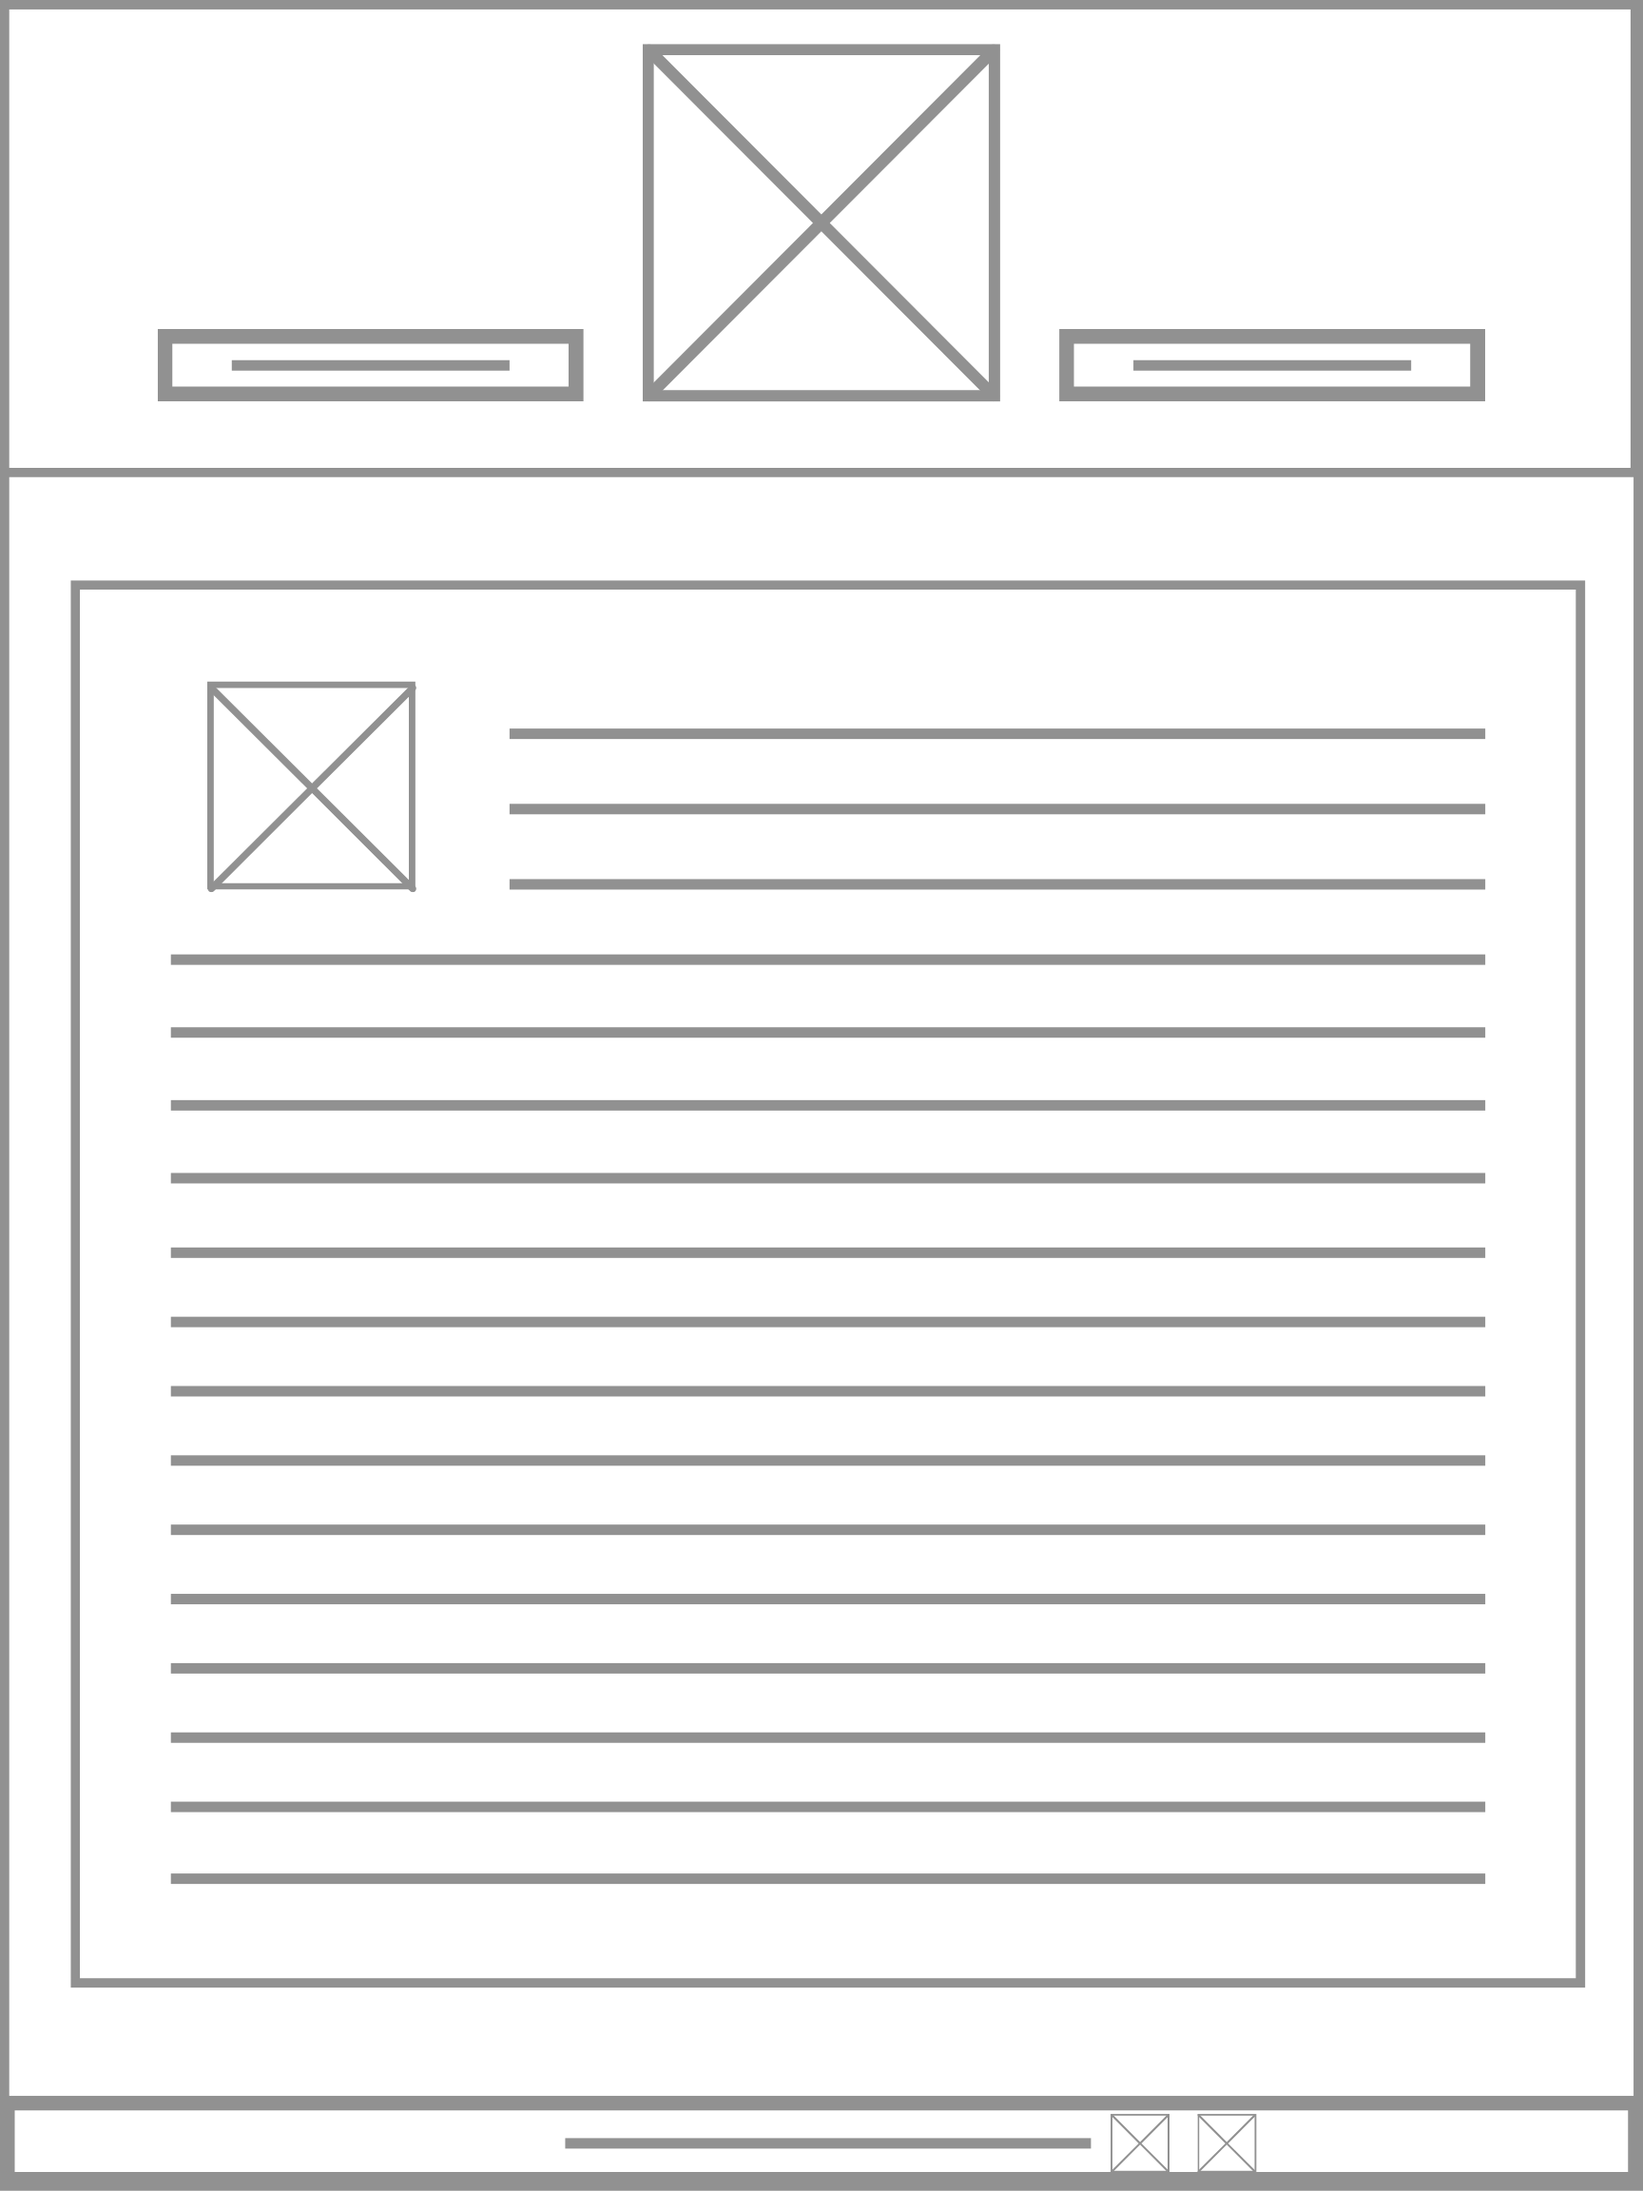
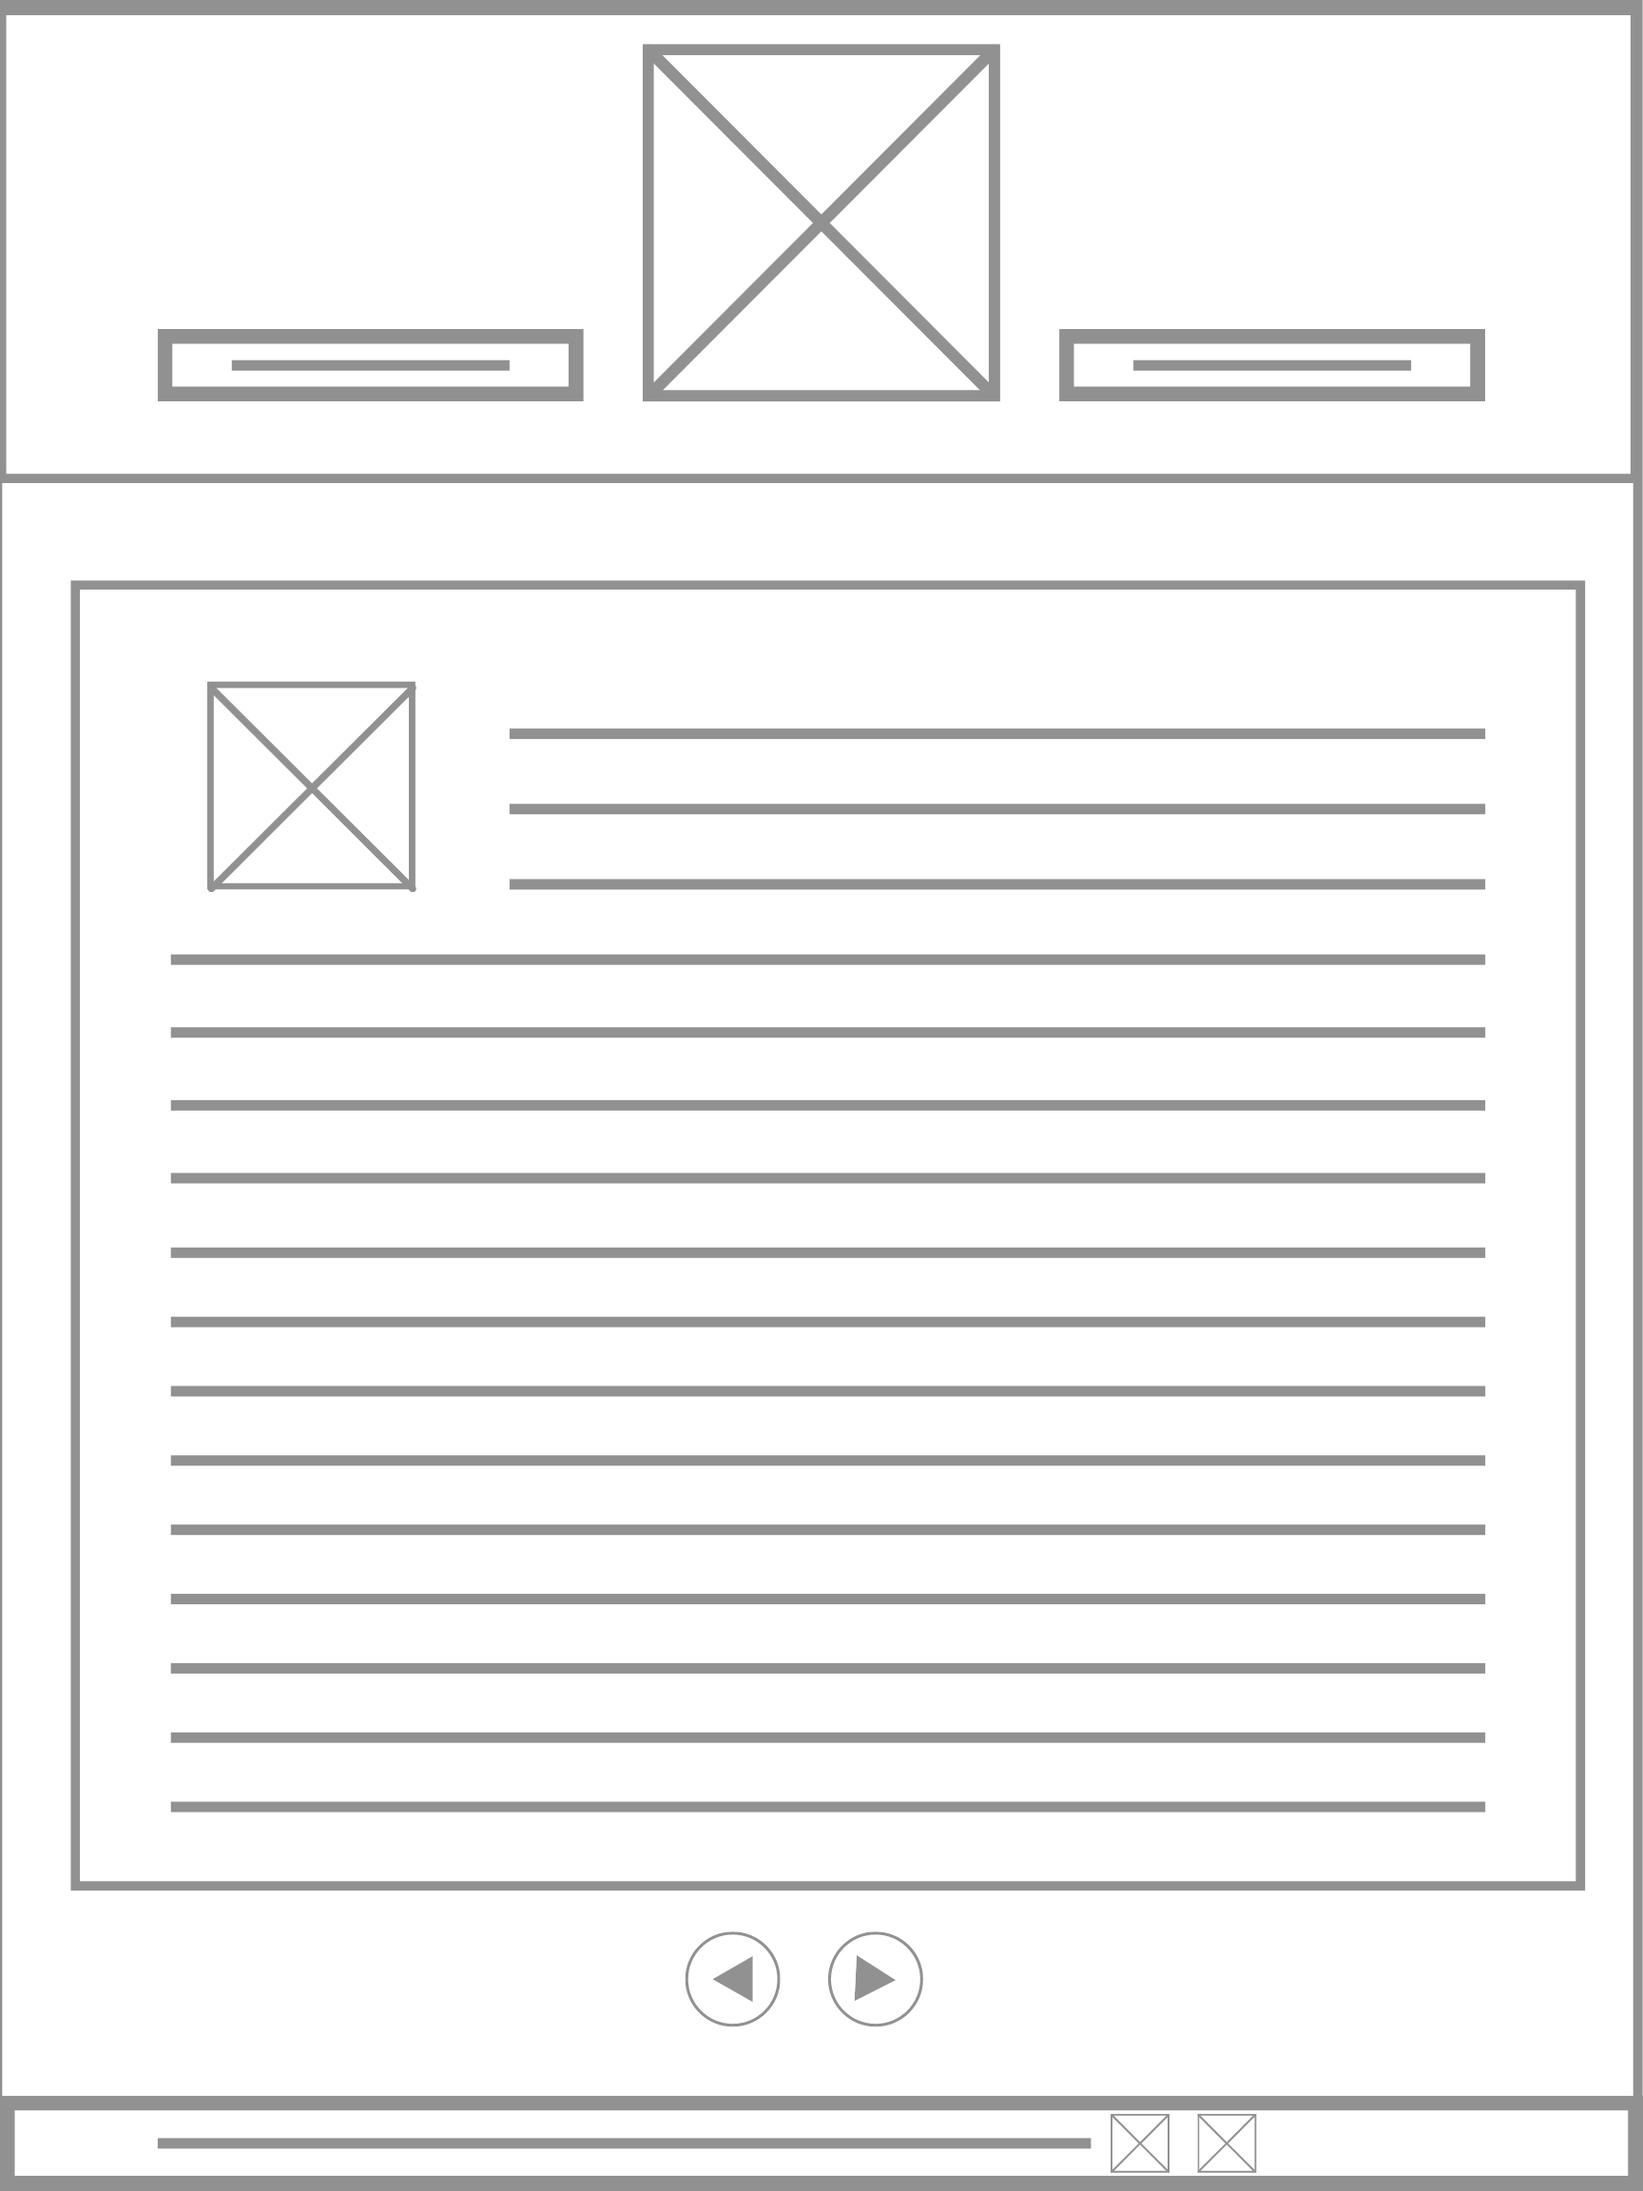
finished poetry page

Changed region(s): [[0.0, 0.1875, 1.0, 0.9375], [0.0938, 0.9688, 0.3438, 1.0], [0.0, 0.0, 0.0312, 0.0312]]

diff --git a/poetry/witchshat_icon.html b/poetry/witchshat_icon.html
@@ -32,34 +32,37 @@
     <main>
       <img class="pp_icon" src="images/hatlo.png" alt="witch's hat icon" />
       <section class="pp_text">
-      <h2>A Witch's Chant by James Hogg</h2>
-      <p>
-        Thou art weary, weary, weary, Thou art weary and far away, Hear me,
-        gentle spirit, hear me, Come before the dawn of day. I hear a small
-        voice from the hill, The vapour is deadly, pale, and still— A murmuring
-        sough is on the wood, And the witching star is red as blood. And in the
-        cleft of heaven I scan The giant form of a naked man, His eye is like
-        the burning brand, And he holds a sword in his right hand. All is not
-        well. By dint of spell, Somewhere between the heaven and hell There is
-        this night a wild deray, The spirits have wander'd from their way. The
-        purple drops shall tinge the moon As she wanders through the midnight
-        noon; And the dawning heaven shall all be red With blood by guilty
-        angels shed. Be as it will, I have the skill To work by good or work by
-        ill; Then here's for pain, and here's for thrall, And here's for
-        conscience, worst of all. Another chant, and then, and then, Spirits
-        shall come or Christian men— Come from the earth, the air, or the sea,
-        Great Gil-Moules, I cry to thee! Sleep'st thou, wakest thou, lord of the
-        wind, Mount thy steeds and gallop them blind; And the long-tailed fiery
-        dragon outfly The rocket of heaven, the bomb of the sky. Over the
-        dog-star, over the wain, Over the cloud, and the rainbow's mane, Over
-        the mountain, and over the sea, Haste—haste—haste to me! Then here's for
-        trouble, and here's for smart, And here's for the pang that seeks the
-        heart; Here's for madness, and here's for thrall, And here's for
-        conscience, the worst of all!
-      </p>
-    </section> 
-      <a  href="pumpkin_icon.html" class="previous">&#8249;</a>
-      <a  href="hand_icon.html" class="next">&#8250;</a>
+        <h2>A Witch's Chant by James Hogg</h2>
+        <p>
+          Thou art weary, weary, weary, Thou art weary and far away, Hear me,
+          gentle spirit, hear me, Come before the dawn of day. I hear a small
+          voice from the hill, The vapour is deadly, pale, and still— A
+          murmuring sough is on the wood, And the witching star is red as blood.
+          And in the cleft of heaven I scan The giant form of a naked man, His
+          eye is like the burning brand, And he holds a sword in his right hand.
+          All is not well. By dint of spell, Somewhere between the heaven and
+          hell There is this night a wild deray, The spirits have wander'd from
+          their way. The purple drops shall tinge the moon As she wanders
+          through the midnight noon; And the dawning heaven shall all be red
+          With blood by guilty angels shed. Be as it will, I have the skill To
+          work by good or work by ill; Then here's for pain, and here's for
+          thrall, And here's for conscience, worst of all. Another chant, and
+          then, and then, Spirits shall come or Christian men— Come from the
+          earth, the air, or the sea, Great Gil-Moules, I cry to thee! Sleep'st
+          thou, wakest thou, lord of the wind, Mount thy steeds and gallop them
+          blind; And the long-tailed fiery dragon outfly The rocket of heaven,
+          the bomb of the sky. Over the dog-star, over the wain, Over the cloud,
+          and the rainbow's mane, Over the mountain, and over the sea,
+          Haste—haste—haste to me! Then here's for trouble, and here's for
+          smart, And here's for the pang that seeks the heart; Here's for
+          madness, and here's for thrall, And here's for conscience, the worst
+          of all!
+        </p>
+      </section>
+      <div class="thebuttons">
+        <a href="pumpkin_icon.html" class="previous">&#8249;</a>
+        <a href="hand_icon.html" class="next">&#8250;</a>
+      </div>
     </main>
     <footer>
       <p>Eerie-sistible Poetry &copy; 2022 - Jade Miller</p>

diff --git a/poetry/eeriesistiblepoetry.html b/poetry/eeriesistiblepoetry.html
@@ -33,15 +33,15 @@
     <main class="icons_grid">
       <section class="icon_row">
         <a href="witchshat_icon.html">
-          <img class="icon" src="images/hatlo.png" alt="witch's hat icon" />
+          <img class="witchshat_icon" src="images/hatlo.png" alt="witch's hat icon" />
           <p class="icon_titles">A Witch's Chant by James Hogg</p>
         </a>
         <a href="raven_icon.html">
-          <img class="icon" src="images/ravenlo.png" alt="raven icon" />
+          <img class="raven_icon" src="images/ravenlo.png" alt="raven icon" />
           <p class="icon_titles">The Raven by Edgar Allan Poe</p>
         </a>
         <a href="grave_icon.html">
-          <img class="icon" src="images/gravelo.png" alt="grave icon" />
+          <img class="grave_icon" src="images/gravelo.png" alt="grave icon" />
           <p class="icon_titles">
             To The Dead in the Graveyard Underneath My Window by Adelaide
             Crapsey
@@ -50,31 +50,31 @@
       </section>
       <section class="icon_row">
         <a href="hand_icon.html">
-          <img class="icon" src="images/handlo.png" alt="hand icon" />
+          <img class="hand_icon" src="images/handlo.png" alt="hand icon" />
           <p class="icon_titles">
             This Living Hand, Now Warm and Capable by John Keats
           </p>
         </a>
         <a href="skull_icon.html">
-          <img class="icon" src="images/skulllo.png" alt="skull icon" />
+          <img class="skull_icon" src="images/skulllo.png" alt="skull icon" />
           <p class="icon_titles">The Murderess by Alice Cary</p>
         </a>
         <a href="house_icon.html">
-          <img class="icon" src="images/houselo.png" alt="house icon" />
+          <img class="house_icon" src="images/houselo.png" alt="house icon" />
           <p class="icon_titles">The Listeners by Walter de la Mare</p>
         </a>
       </section>
       <section class="icon_row">
         <a href="ghost_icon.html">
-          <img class="icon" src="images/ghostlo.png" alt="ghost icon" />
+          <img class="ghost_icon" src="images/ghostlo.png" alt="ghost icon" />
           <p class="icon_titles">Ghost Prisoner by Heid Erdrich</p>
         </a>
         <a href="wolf_icon.html">
-          <img class="icon" src="images/wolflo.png" alt="wolf icon" />
+          <img class="wolf_icon" src="images/wolflo.png" alt="wolf icon" />
           <p class="icon_titles">Werewolf by Eve Roper</p>
         </a>
         <a href="pumpkin_icon.html">
-          <img class="icon" src="images/pumpkinlo.png" alt="pumpkin icon" />
+          <img class="pumpkin_icon" src="images/pumpkinlo.png" alt="pumpkin icon" />
           <p class="icon_titles">Theme in Yellow by Carl Sandburg</p>
         </a>
       </section>

diff --git a/poetry/styles/eeriesistiblepoetry.css b/poetry/styles/eeriesistiblepoetry.css
@@ -73,10 +73,6 @@ body {
   width: 100%;
 }
 
-.icon {
-  width: 40%;
-}
-
 .icon_titles {
   color: #faceb1;
   text-decoration: none;
@@ -91,6 +87,78 @@ body {
   color: #a489fb;
   align-items: center;
 }
+
+.witchshat_icon{
+  width: 40%
+}
+
+/* .witchshat_icon:hover{
+  background: url('hatp.png');
+} */
+
+.raven_icon{
+  width: 40%;
+}
+
+/* .raven_icon:hover{
+
+} */
+
+.grave_icon{
+  width: 40%;
+}
+
+/* .grave_icon:hover{
+
+} */
+
+.hand_icon{
+  width: 40%;
+}
+
+/* .hand_icon:hover{
+
+} */
+
+.skull_icon{
+  width: 40%;
+}
+
+/* .skull_icon:hover{
+
+} */
+
+.house_icon{
+  width: 40%;
+}
+/* 
+.house_icon:hover{
+
+} */
+
+.ghost_icon{
+  width: 40%;
+}
+
+/* .ghost_icon:hover{
+
+} */
+
+.wolf_icon{
+  width: 40%;
+} 
+/* 
+.wold_icon:hover{
+
+} */
+
+.pumpkin_icon{
+  width: 40%;
+}
+
+/* .pumpkin_icon:hover{
+
+} */
 
 .site-plan {
   text-decoration: none;
@@ -142,9 +210,9 @@ footer {
 /* poetry pages */
 
 .pp_icon{
-  width: 15%;
-  margin-top: 10%;
+  width: 100px;
   margin-left: 10%; 
+  float: left;
 }
 
 .pp_text{
@@ -156,7 +224,6 @@ footer {
 .pn_button {
   text-decoration: none;
   display: inline-block;
-  padding: 8px 16px;
   color: #0d6244;
   background-color: #DED6FC;
   border-radius: 50%;
@@ -176,9 +243,7 @@ footer {
   color: #0d6244;
   background-color: #DED6FC;
   border-radius: 50%;
-  margin-top: 20px;
-  margin-bottom: 5%;
-  margin-left: 45%;
+ align-items: center;
 }
 
 .previous:hover{
@@ -195,10 +260,13 @@ footer {
   color: #0d6244;
   background-color: #DED6FC;
   border-radius: 50%;
-  margin-top: 20px;
-  margin-bottom: 5%;
 }
 
+.thebuttons{
+  width: 200px;
+  margin: 20px auto 5% auto;
+  text-align: center;
+}
 .next:hover{
   background-color: #FACEB1;
   color: #FF9168;

diff --git a/poetry/pumpkin_icon.html b/poetry/pumpkin_icon.html
@@ -42,8 +42,10 @@
         jack-o'-lantern With terrible teeth And the children know I am fooling.
       </p>
       </section>
-      <a  href="house_icon.html" class="previous">&#8249;</a>
-      <a  href="witchshat_icon.html" class="next">&#8250;</a>
+      <div class="thebuttons">
+        <a href="house_icon.html" class="previous">&#8249;</a>
+        <a href="witchshat_icon.html" class="next">&#8250;</a>
+      </div>
     </main>
 
     <footer>

diff --git a/poetry/hand_icon.html b/poetry/hand_icon.html
@@ -41,8 +41,10 @@
         conscience-calm'd-see here it is- I hold it towards you.
       </p>
       </section>
-      <a  href="witchshat_icon.html" class="previous">&#8249;</a>
-      <a  href="ghost_icon.html" class="next">&#8250;</a>
+      <div class="thebuttons">
+        <a href="witchshat_icon.html" class="previous">&#8249;</a>
+        <a href="ghost_icon.html" class="next">&#8250;</a>
+      </div>
     </main>
 
     <footer>

diff --git a/poetry/ghost_icon.html b/poetry/ghost_icon.html
@@ -51,8 +51,10 @@
         We do not want to know what it took to make him wish he were dead still.
       </p>
     </section>
-      <a  href="hand_icon.html" class="previous">&#8249;</a>
-      <a  href="raven_icon.html" class="next">&#8250;</a>
+    <div class="thebuttons">
+      <a href="hand_icon.html" class="previous">&#8249;</a>
+      <a href="raven_icon.html" class="next">&#8250;</a>
+    </div>
     </main>
 
     <footer>

diff --git a/poetry/skull_icon.html b/poetry/skull_icon.html
@@ -53,8 +53,10 @@
         impart To press the eternal darkness down Against her bleeding heart.
       </p>
     </section> 
-      <a  href="raven_icon.html" class="previous">&#8249;</a>
-      <a  href="wolf_icon.html" class="next">&#8250;</a>
+    <div class="thebuttons">
+      <a href="raven_icon.html" class="previous">&#8249;</a>
+      <a href="wolf_icon.html" class="next">&#8250;</a>
+    </div>
     </main>
 
     <footer>

diff --git a/poetry/house_icon.html b/poetry/house_icon.html
@@ -57,8 +57,10 @@
         softly backward, When the plunging hoofs were gone.
       </p>
       </section>
-      <a  href="grave_icon.html" class="previous">&#8249;</a>
-      <a  href="pumpkin_icon.html" class="next">&#8250;</a>
+      <div class="thebuttons">
+        <a href="grave_icon.html" class="previous">&#8249;</a>
+        <a href="pumpkin_icon.html" class="next">&#8250;</a>
+      </div>
     </main>
 
     <footer>

diff --git a/poetry/grave_icon.html b/poetry/grave_icon.html
@@ -67,8 +67,10 @@
         That in your graves do therefore lie so still.
       </p>
     </section>
-      <a  href="wolf_icon.html" class="previous">&#8249;</a>
-      <a  href="house_icon.html" class="next">&#8250;</a>
+    <div class="thebuttons">
+      <a href="wolf_icon.html" class="previous">&#8249;</a>
+      <a href="house_icon.html" class="next">&#8250;</a>
+    </div>
     </main>
 
     <footer>

diff --git a/poetry/raven_icon.html b/poetry/raven_icon.html
@@ -126,8 +126,10 @@
         Shall be lifted—nevermore!
       </p>
       </section>
-      <a  href="ghost_icon.html" class="previous">&#8249;</a>
-      <a  href="skull_icon.html" class="next">&#8250;</a>
+      <div class="thebuttons">
+        <a href="ghost_icon.html" class="previous">&#8249;</a>
+        <a href="skull_icon.html" class="next">&#8250;</a>
+      </div>
     </main>
 
     <footer>

diff --git a/poetry/wolf_icon.html b/poetry/wolf_icon.html
@@ -43,8 +43,10 @@
         knees unfed.
       </p>
       </section>
-      <a  href="skull_icon.html" class="previous">&#8249;</a>
-      <a  href="grave_icon.html" class="next">&#8250;</a>
+      <div class="thebuttons">
+        <a href="skull_icon.html" class="previous">&#8249;</a>
+        <a href="grave_icon.html" class="next">&#8250;</a>
+      </div>
     </main>
 
     <footer>
